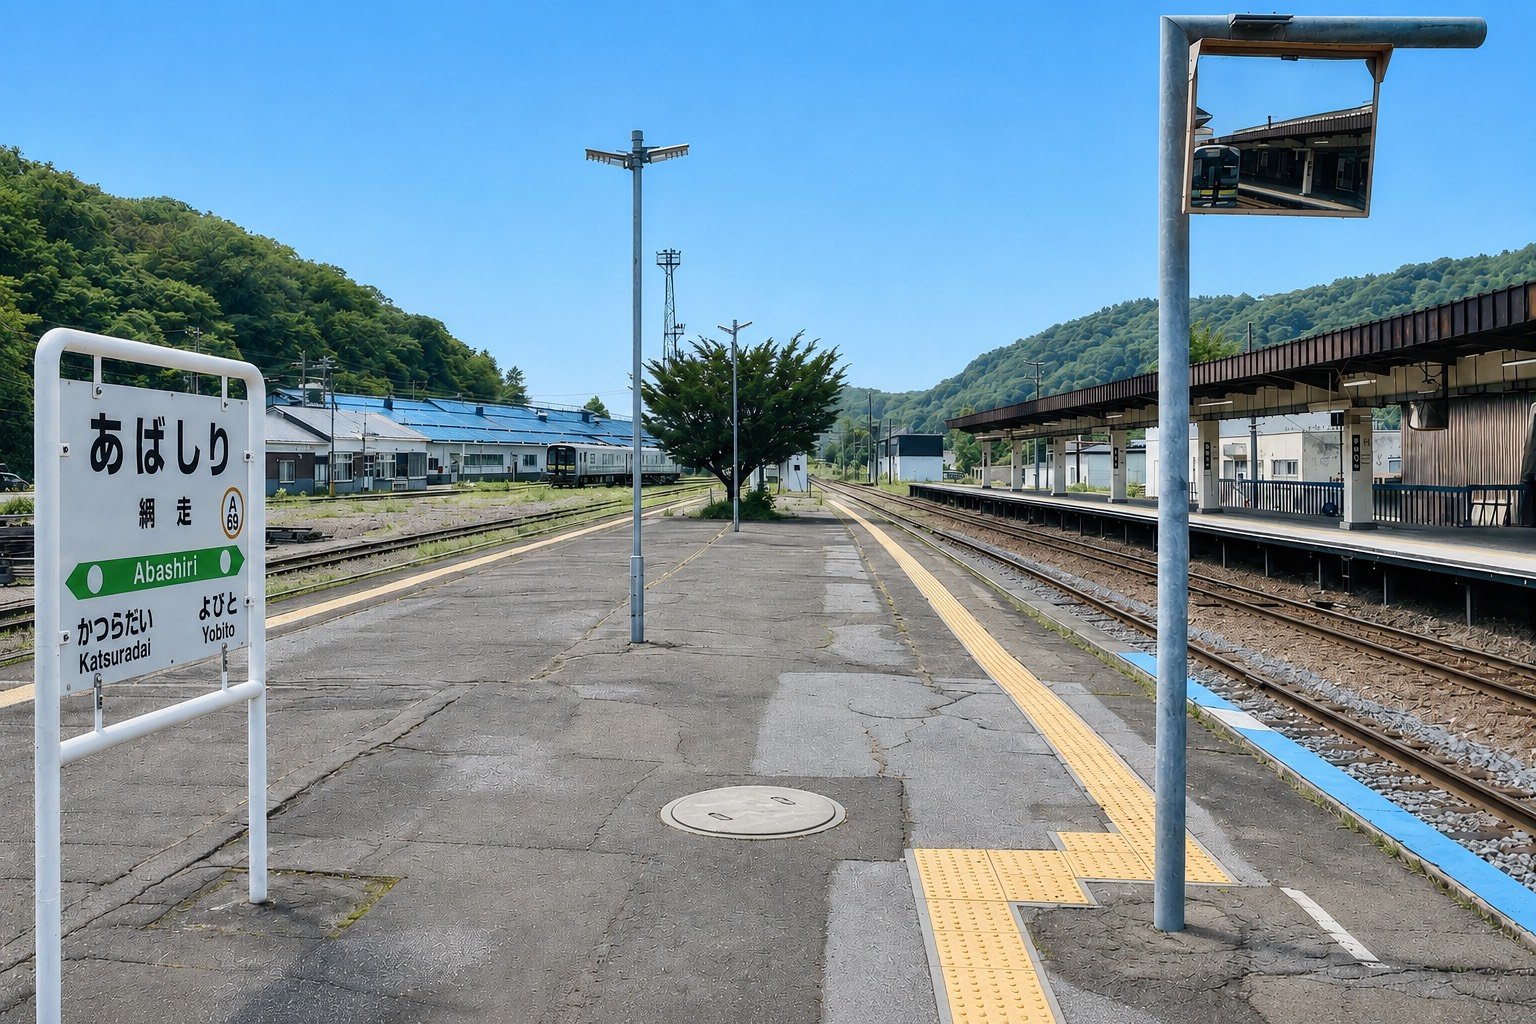
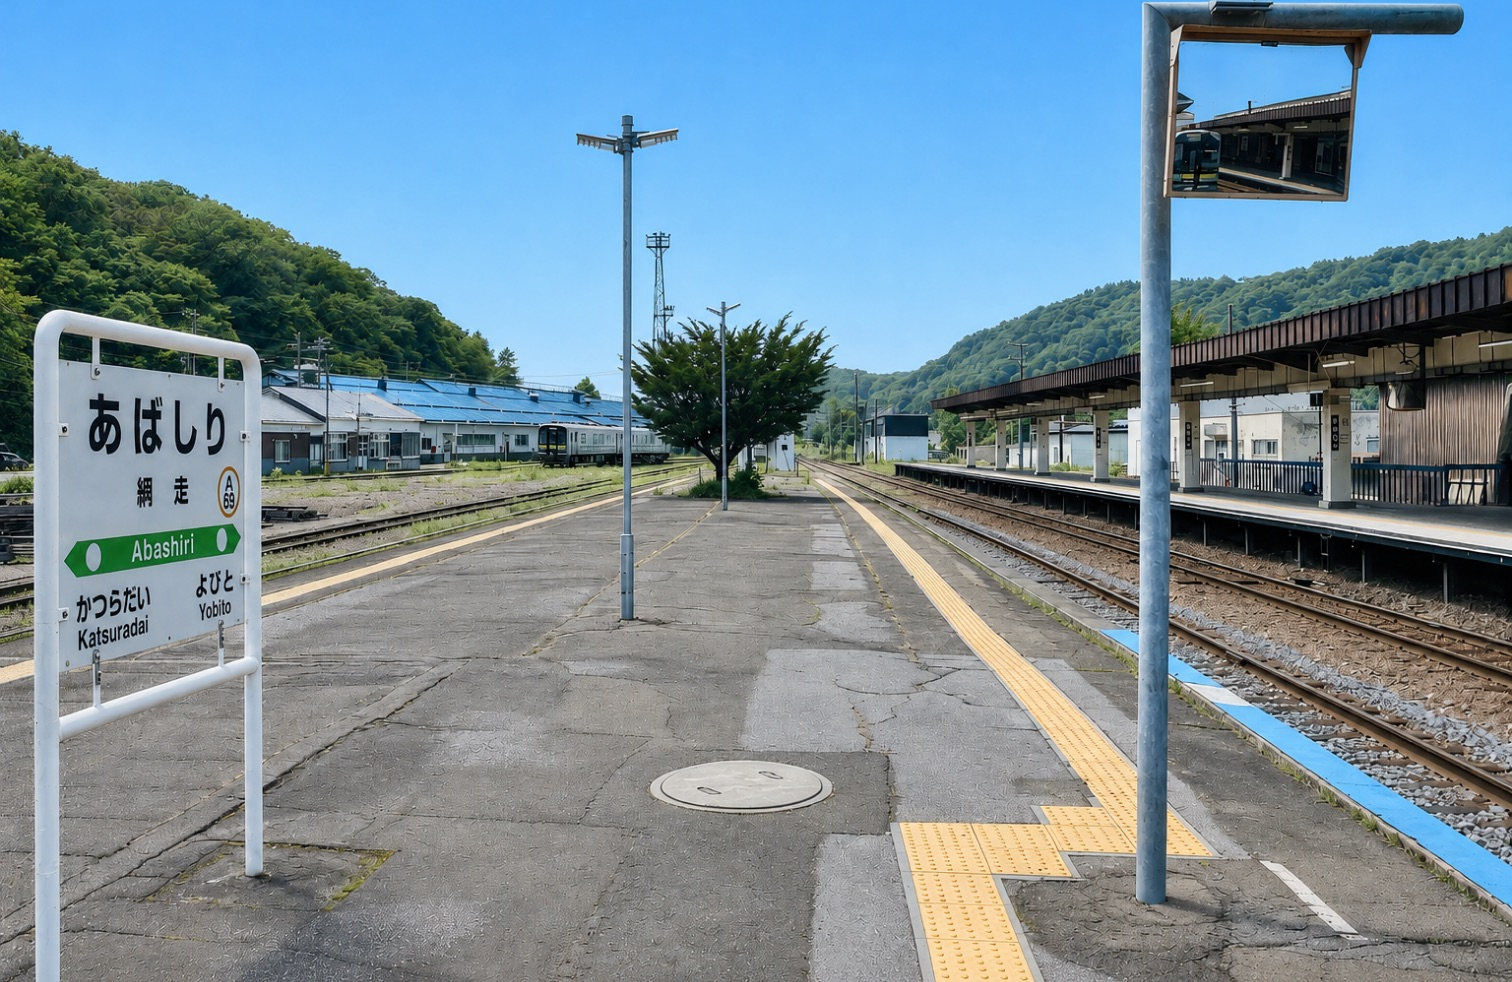
abashiri-site v1.1: スポット写真をカンプのトリミングそのままに／見出しの gap をカンプ更新値へ
写真（4枚）
- カンプが実際に敷いている絵（トリミング・左右反転込み）をノード単位で書き出して採用
  能取岬 15152:29476 / サンゴ草 15152:29501 / 網走駅 15152:29525 / 流氷 15152:29549
- ⚠ 書き出せる最大が 1512x982（カンプの実寸）なので、Retina では等倍。
  元写真そのままの方がシャープだがトリミングがカンプと変わるため、カンプ優先にした

カンプ更新の反映（15152:29490 / ヒデさん調整）
- 「ぼーっとスポット」と地名の間 gap 24px → 8px
- パネル高さ 237px → 238px
- 小見出しは text-box を cap 高さで詰める指定（カンプで高さ13pxになっている）

diff --git a/abashiri-site/components/SpotShowcase.tsx b/abashiri-site/components/SpotShowcase.tsx
@@ -118,10 +118,16 @@ export default function SpotShowcase({
         </AnimatePresence>
 
         {/* すりガラスの説明パネル。カンプ 15152:29490 */}
-        <div className="absolute right-[41px] top-[684px] flex h-[237px] w-[712px] flex-col justify-center gap-6 bg-white/10 p-11 backdrop-blur-65">
+        <div className="absolute right-[41px] top-[684px] flex h-[238px] w-[712px] flex-col justify-center gap-6 bg-white/10 p-11 backdrop-blur-65">
           <div className="flex w-full items-end gap-6">
-            <div className="flex min-w-px flex-1 flex-col gap-6 font-thin leading-[1.2] text-white">
-              <p className="whitespace-nowrap text-body-18">ぼーっとスポット</p>
+            {/* v1.1 更新（2026-08-18 ヒデさんがカンプで gap を詰めた）:
+                「ぼーっとスポット」と地名の間は 24px → 8px。
+                小見出しだけ text-box を cap 高さで詰めているのもカンプ指定
+                （Figma 上の高さが 18px フォントで 13px になっているのがその印） */}
+            <div className="flex min-w-px flex-1 flex-col gap-2 font-thin leading-[1.2] text-white">
+              <p className="whitespace-nowrap text-body-18 [text-box-edge:cap_alphabetic] [text-box-trim:trim-both]">
+                ぼーっとスポット
+              </p>
               <AnimatePresence mode="wait">
                 <motion.p
                   key={spot.id}
